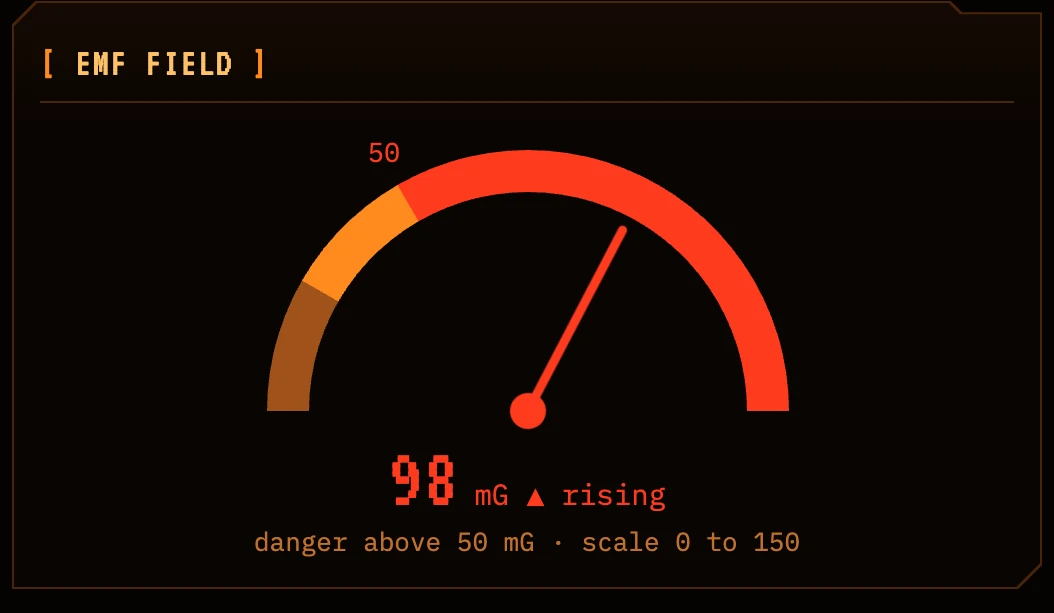
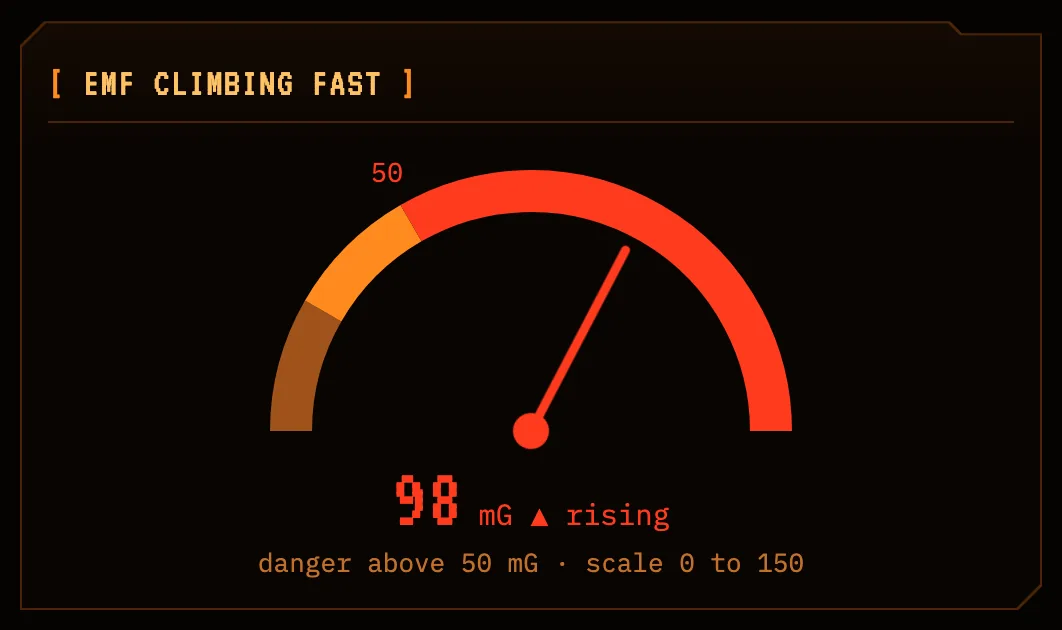
Retake the EMFGauge with its model title and tighten the new component notes

Changed region(s): [[0.0, 0.0, 1.0, 0.9918], [0.2429, 0.5269, 0.3036, 0.6199], [0.2429, 0.6509, 0.3036, 0.6819]]

diff --git a/docs/components.md b/docs/components.md
@@ -59,7 +59,7 @@ The screenshots come from live runs on 2026-10-28 at 1440x900, cropped to the pa
 ![FloorPlan on the floor view with markers, step 20](components/floor-plan.webp)
 ![FloorPlan around the tower, Zombie Rush step 3](components/floor-plan-area.webp)
 
-- **Shows:** two views. "Floor" is a schematic of the Loft (`data/map/floor.json`), with the hot sector hatched in red, the sealed sectors, the safe route out as a dotted line and the model's markers. "Around the tower" is the OpenStreetMap area (`data/map/area.geojson`), 150 meters around the tower, with a pin at the incident's outdoor spot, or at the venue when there is none. A scene image of the sector can sit under the plan.
+- **Shows:** two views. "Floor" is a schematic of the Loft (`data/map/floor.json`), with the hot sector in red, the sealed sectors hatched, the safe route out as a dotted line and the model's markers. "Around the tower" is the OpenStreetMap area (`data/map/area.geojson`), 150 meters around the tower, with a pin at the incident's outdoor spot, or at the venue when there is none. A scene image of the sector can sit under the plan.
 - **When:** a harmless report never gets it. The model sets the area view only when the report puts the incident outside the building.
 - **Route:** the model lists the sectors from where the people are to a way out. The page walks the path between them and goes round sealed sectors. When every way is sealed, the legend says which sectors block it. `clean_manifest` keeps only known sectors, and a route that stops inside the building goes on to the entrance.
 - **Powered by:** Parasail places the hot sector, the seals, the route, the view, the outdoor spot and the markers. The map data is static, and OpenStreetMap is credited under the area view.
@@ -71,7 +71,7 @@ The screenshots come from live runs on 2026-10-28 at 1440x900, cropped to the pa
 The floor view in the screenshot above shows three markers: "2 subjects, row 16", "5 injured, stair foot" and "Silver cutlery, SW stairwell".
 
 - **Shows:** up to 4 short notes pinned on the floor, each in its sector. The shape gives the kind: a diamond for a threat, a circle for people, a square for a countermeasure in place and a triangle for a hazard such as smoke or a blocked stair.
-- **When:** the prompt asks for facts the report gives, never the route and never an invented fact. `clean_manifest` keeps markers with a known sector and kind and cuts each label to 5 words and 28 characters.
+- **When:** the prompt asks for facts the report gives, never the route and never an invented fact. `clean_manifest` keeps markers with a known sector and kind and cuts each label to its first 5 words that fit in 28 characters.
 - **Placement:** the model only names the sector. The page finds a spot inside it where the glyph and label overlap the sector names, the route, the exits and earlier markers the least.
 - **Accessibility:** the markers on the plan are hidden from screen readers. The legend lists each one as text, such as "threat in Main stage: 2 subjects, row 16".
 
@@ -163,11 +163,11 @@ These parts are always there. The model doesn't choose them.
 
 ![Incident report on step 21, built on the moves from step 20](components/report-panel.webp)
 
-- **Shows:** the full raw report, above the station. The heading names the scenario, the step, its time, the feed tier and "simulated" when it is. When this tab picked a step other than the one on screen, it adds the step on screen.
+- **Shows:** the full raw report, above the station. The heading names the scenario, the step, its time, the feed tier and "simulated" for a simulated report. When this tab picked a step other than the one on screen, it adds the step on screen.
 - **Evidence highlights:** the intake quotes the report's own words. Threat evidence is red with a solid underline, a harmless explanation is pale with a dotted one, and people at risk are amber with a dashed one. Hovering or focusing a highlight shows the model's reason, and a legend under the report names each kind shown. The pipeline keeps only quotes that occur in the report word for word (`clean_quotes`), and the marks show only on the report the station was built from.
 - **Step controls:** "Previous", a dropdown of every scenario's steps with each step's time and opening words, and "Next step" as the filled button. Only a later step of the same scenario builds on the operator's moves. Going back or elsewhere starts clean.
 - **Single incidents:** a menu of the standalone incidents with their feed tier and first words, plus "New incident…", which opens a box to paste any report. Compiling a pasted report needs live mode. From a single incident or a pasted report, "Back to Nightfall, step 20" (the scenario and step this tab was last on) replaces the step controls.
-- **Memory line:** "Reading this report with what the 1 earlier step of this scenario found." The intake reads the findings of up to 6 earlier steps, so a report that refers back to them makes sense.
+- **Memory line:** "Reading this report with what the 1 earlier step of this scenario found." The intake reads the findings of up to 6 earlier steps, so it can follow a report that refers back to them.
 - **Moves line:** "Building on your moves at 19:55:", then the countermeasure, the sealed sectors, how many people are out and each expert called, with the call's status. It shows when the station was built with the moves from the step before.
 - **Powered by:** the fixtures in `fixtures/` for the text. Parasail's intake for the quotes, and the server for the moves and the memory of earlier steps.
 - **Accessibility:** the controls stay focusable while a station builds and say so with `aria-disabled`, so stepping by keyboard takes one key per step. The menu closes on Escape. Highlights are focusable, and each reason is a tooltip linked to its highlight.
